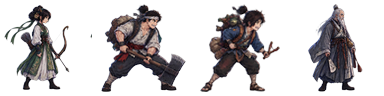
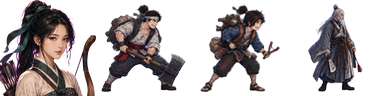
매향 새 원화 반영 — 달리기 4컷 신설, 공격 4컷·얼굴 교체
- 자홍 배경과 바닥선을 지우고 시트당 4컷으로 분리, 발을 바닥선에 맞춰 정렬
- comps.png/json 재생성: 매향 8프레임 (0~3 공격, 4~7 달리기).
  다른 동료 3명은 기존 4프레임 그대로 옮김
- 달릴 때 4컷이 순환한다. 프레임이 8개 미만인 동료는 예전처럼 대기 자세로 따라오고
  억지 기울이기·흔들림도 그쪽에만 남긴다 (새 그림은 이미 달리는 자세라 불필요)
- 공격도 새 4컷을 그대로 쓴다. 옛 그림에서 칼자국처럼 보이던 3번째 컷 회피는
  구 원화 동료에게만 적용
- comp_face.png 매향 칸을 새 초상으로 교체

Changed region(s): [[0.0, 0.0, 0.25, 1.0]]

diff --git a/index.html b/index.html
@@ -1682,16 +1682,23 @@ const CompSpr={
       const x=h.x-26-i*19, gy=W.G-10-i*8;
       const cs=W.comps[i];
       let fi=0;
-      if(!W.running&&cs&&cs.anim>0){            // 제 박자로 활을 당기고 놓는다
-        // 3번째 컷(index 2)은 초록 기운이 대각선으로 크게 흘러 작은 화면에서 칼자국처럼
-        // 보인다. 시위 당김(1) → 발사 직후(3)만 써서 활 쏘는 동작으로 읽히게 한다.
-        fi=(1-cs.anim/0.52)<0.5?1:3;
+      const hasRun=arr.length>=8;             // 4~7번이 달리기 컷인 동료 (새 원화)
+      if(W.running){
+        // 달리기 컷이 있으면 순환시킨다. 없으면 예전처럼 대기 자세로 따라온다.
+        fi=hasRun?4+(Math.floor(h.run*7+i*1.3)%4):0;
+      }else if(cs&&cs.anim>0){                // 제 박자로 활을 당기고 놓는다
+        const k=1-cs.anim/0.52;
+        // 새 원화는 4컷이 대기→당김→발사→마무리로 제대로 나뉘어 있어 그대로 쓴다.
+        // 옛 원화는 3번째 컷이 칼자국처럼 보여 건너뛴다.
+        fi=hasRun?Math.min(3,1+Math.floor(k*3)):(k<0.5?1:3);
       }
       const f=arr[fi], s=1/this.sc;
       // 달릴 때: 위아래로 흔들리고 앞으로 기울여 '떠 있는' 느낌을 없앤다
-      const bob=W.running?Math.abs(Math.sin(h.run*9+i*1.7))*4:0;
-      const lean=W.running?0.07+Math.sin(h.run*9+i*1.7)*0.03:0;
-      const sway=W.running?Math.sin(h.run*4.5+i*1.7)*1.6:0;
+      // 진짜 달리기 컷이 있으면 억지 기울이기·흔들림은 넣지 않는다 (그림이 이미 달린다)
+      const fake=W.running&&!hasRun;
+      const bob=fake?Math.abs(Math.sin(h.run*9+i*1.7))*4:0;
+      const lean=fake?0.07+Math.sin(h.run*9+i*1.7)*0.03:0;
+      const sway=fake?Math.sin(h.run*4.5+i*1.7)*1.6:0;
       cx.save();
       cx.globalAlpha=0.85-i*0.07;               // 뒤로 갈수록 옅게 (원근)
       if(lean){ cx.translate(x,gy); cx.rotate(lean); cx.translate(-x,-gy); }
